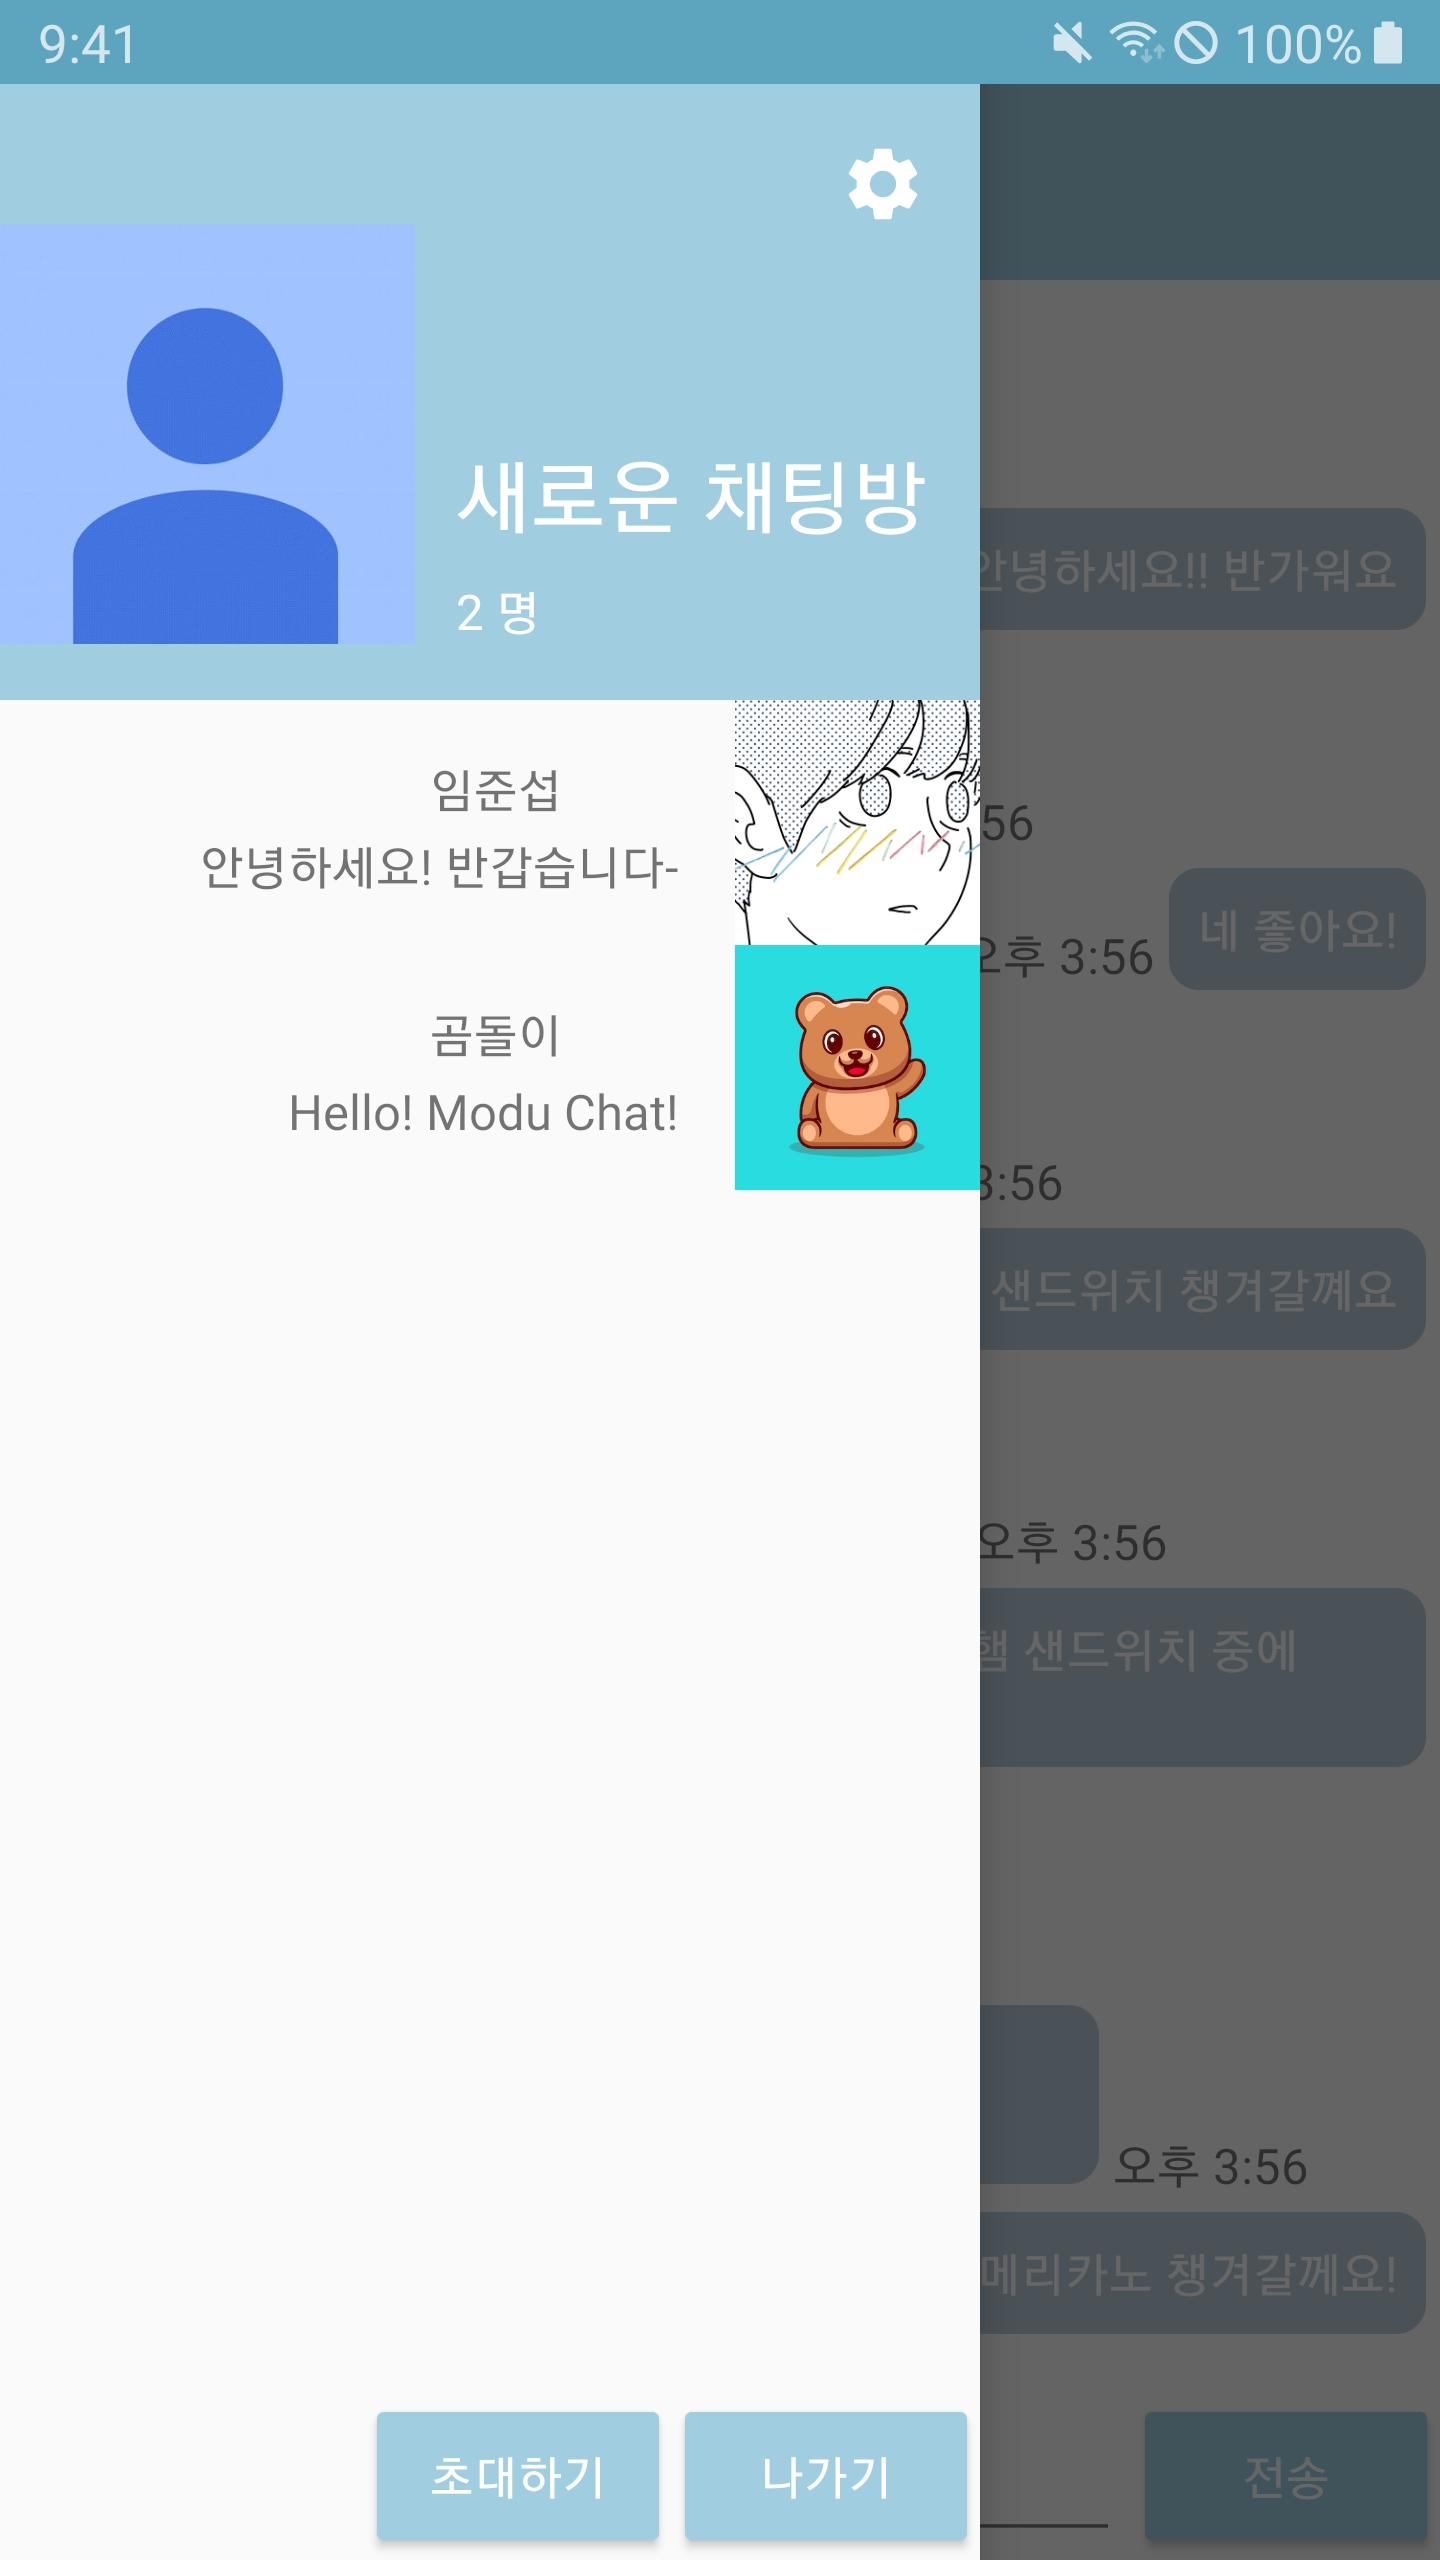
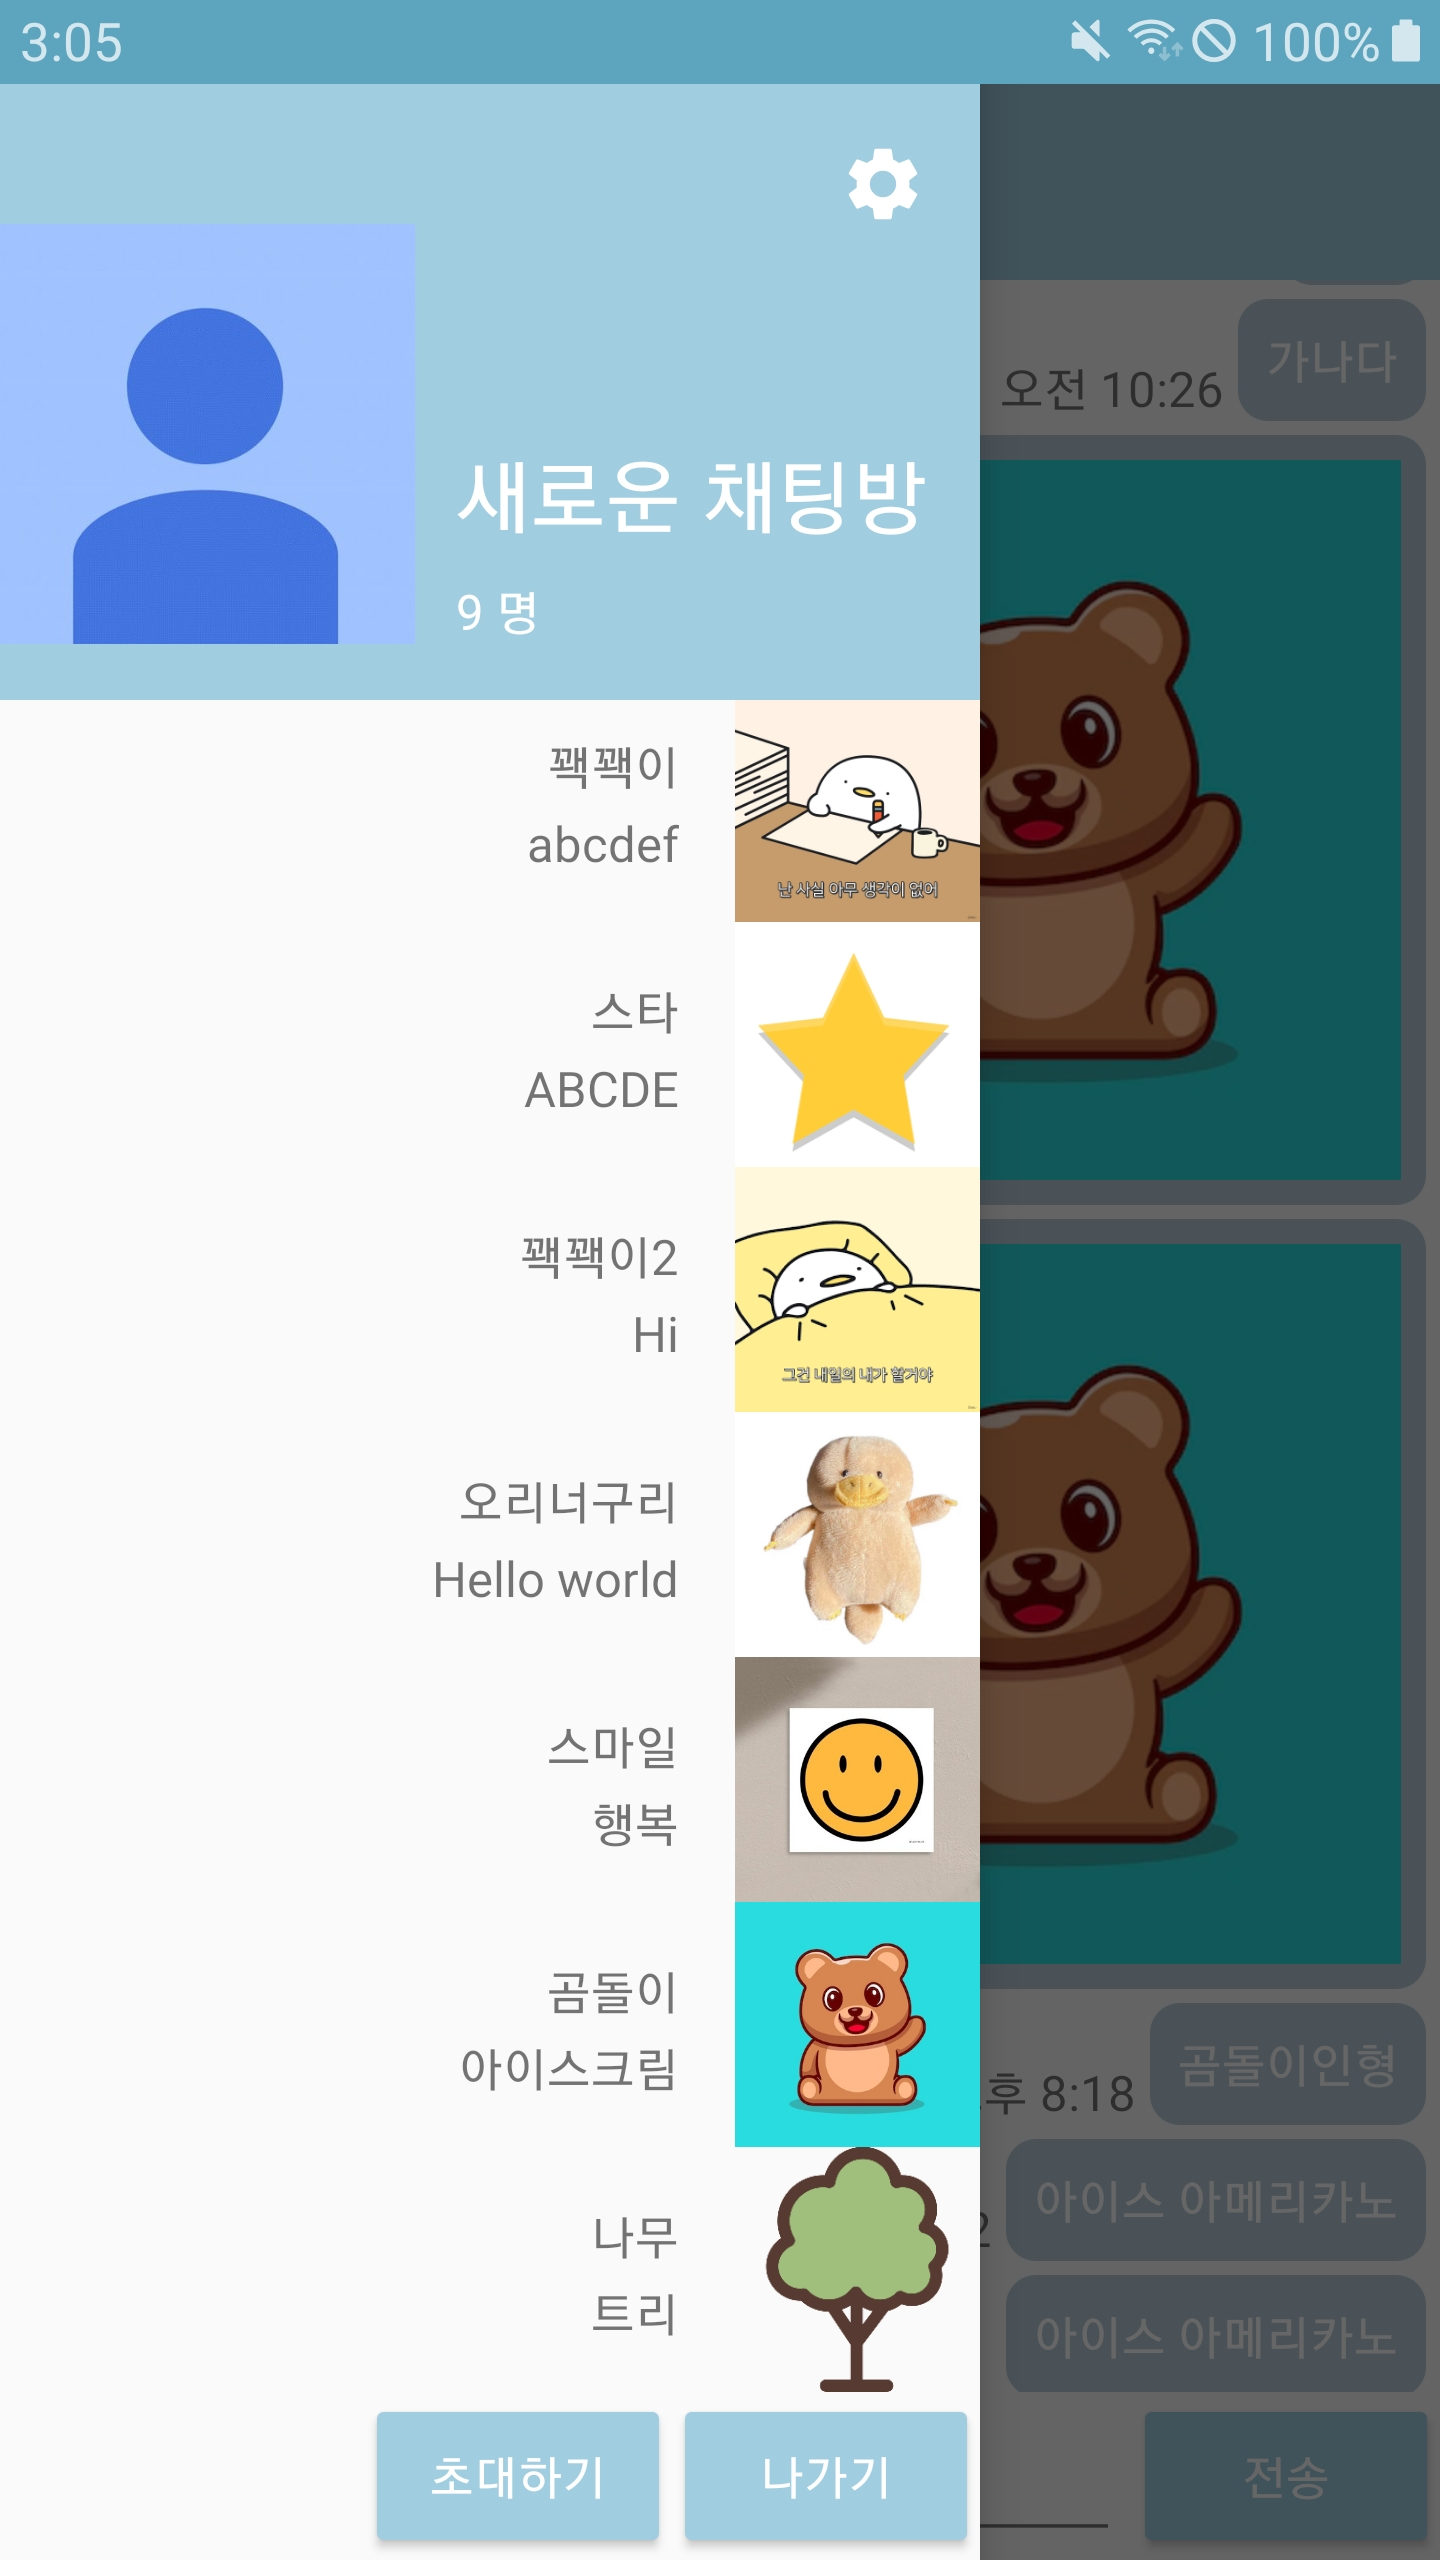
Docs: "백엔드/안드로이드 문서 내용 추가"
백엔드
- 채팅 내역 조회시 페이징 관련 내용 추가
안드로이드
- 안드로이드 Q Scoped Storage 관련 내용 추가
- 채팅 내역 조회시 페이징 처리 관련 내용 추가
- 채팅방 멤버 리스트 사진 수정

Resolves: N/A
Ref: N/A
Related to: N/A

diff --git a/android/ModuMessenger/README.md b/android/ModuMessenger/README.md
@@ -35,6 +35,41 @@ Retrofit을 이용하여 백엔드와 통신하는 것으로 결정
 일반 메세지 (텍스트) 전송 가능   
 예정) 기타 메세지 (사진, 파일 등) 지원 예정  
 
+## 안드로이드 Q(API 29) 의 Scoped Storage
+
+안드로이드 Q(Api 29)에서 보안 및 저장 공간의 효율화를 위해서 Scoped Storage가 추가되었다.  
+내부저장소의 경우 기존과 동일하지만 외부저장소의 경우 이전과 달라졌다.  
+외부저장소의 경우 개별공간이 앱별로 샌드박스로 격리되도록 변경되었다.  
+또한 외부저장소의 공용공간도 음악, 동영상, 다운로드로 분리되었다.  
+분리된 음악, 동영상, 다운로드 구조 내부에서 또 앱 패키지 별로 또 구분되도록 변경되었다.  
+
+채팅으로 사진을 전송할때, 갤러리에서 사진을 선택하고 서버로 전송해야 한다.  
+Q 이전 버전에서 사용하던 MediaStore의 방식이 Deprecated 되었다.  
+따라서 갤러리의 이미지를 내부 저장소에 복사한다음, 이파일 경로를 서버로 업로드 한다.  
+이때 생성한 내부저장소의 임시파일은 전송후 삭제한다.  
+
+## 채팅방 Infinite Scroll
+
+채팅방에서 주고 받은 채팅이 100개 라면 한번에 조회시 부하가 크게 발생하지 않을 것이다.  
+하지만 채팅이 100개가 아니라 천개, 만개 혹은 그 이상이라면 전체 조회시에 로딩이 길어질 것이다.  
+따라서 채팅방에 입장하면 초기에 보여질 채팅을 우선적으로 가져와서 보여준다.  
+그리고 이전 내역을 조회 해야하는 경우에만 이전 채팅을 가져오는 방식으로 구현을 하였다.  
+
+이전 채팅을 가져오는 기준은 채팅 각각이 가지고 있는 아이디를 기준으로 한다.  
+현재 표시된 가장 마지막 채팅의 아이디가 123이면 123 이전의 아이디를 조회해서 가져온다.  
+이전 내역을 조회해야 하는 경우는 보여진 채팅을 전부 보고 난 뒤 이다. (스크롤이 끝에 도달한 경우)  
+
+채팅은 위아래 두가지 방향에서 추가 될수 있다. (위 - 이전 채팅, 아래 - 신규 채팅)   
+이전 채팅 내역을 추가하는 경우는 채팅 리스트의 맨 앞에 추가해야한다.  
+그리고 새롭게 전송되는 채팅은 채팅 리스트의 맨 뒤에 추가되어야 한다.  
+
+이때 보여지는 어떻게 기준을 가지고 새 채팅을 추가하고, 이전 채팅을 가져와야 하는지 헷갈릴 수 있다.  
+근데 잘생각해보면 두 데이터는 서로 간섭을 하지않는다. 입장하면서 가져온 채팅 리스트를 기준으로만 생각하면 된다.  
+이전 채팅을 가져오는 채팅의 id는 이전 채팅을 조회할때마다 갱신된다. (가장 마지막 표시된 채팅의 id)  
+그렇게 해서 가져온 이전 채팅들은 리스트의 맨 앞에만 추가된다. (순서상으로 앞에 있기 때문이다)  
+그리고 새롭게 전송되는 채팅은 조회해서 가져온 채팅 리스트의 마지막에 계속 추가된다.   
+채팅의 경우 순차적인 데이터 이므로 중간에 삽입되는 일이 절대로 없다. (수정이나, 삭제는 가능, 삽입만 없음)  
+
 ## 오프라인 모드
 
 오프라인 모드를 지원  

diff --git a/backend/ModuMessenger/README.md b/backend/ModuMessenger/README.md
@@ -49,6 +49,18 @@ Subscribe 중인 채널로 부터 다른 채팅 서버에서 보낸 데이터가
 채팅방, 유저 테이블은 본 프로젝트의 핵심이되는 테이블로 부하가 가장 많이 생기는 테이블   
 따라서 쿼리가 추가로 발생하는 상황 (N+1 문제)를 최대한 피하고자 초기설게에서 연관관계를 수정함   
 
+### 채팅 페이징 처리 (No offset 페이징 처리)
+초기 설계는 페이징 처리를 통해서 오프셋과 사이즈를 통해서 처리를 하려고 했다.  
+하지만 채팅의 경우 1페이지에서 3페이지로 건너뛰는 경우가 없다.  
+스크롤하다가 스크롤이 끝에 도달한 경우에만 이전 데이터를 가져오면 된다.  
+그래서 정해진 사이즈와 마지막으로 표시된 채팅의 정보만으로 조회가 가능하다.  
+
+그런데 마지막으로 표시된 채팅이 없는 경우가 존재한다. 어떤 경우일까?  
+하나는 채팅방에 처음 입장하는 순간이다. 마지막으로 표시된 채팅이 없기 때문이다.  
+이경우에는 채팅방의 채팅을 조회한뒤 마지막에서부터 정해진 크기만큼의 데이터만을 조회한다.  
+두번째는 채팅방을 처음 생성한 경우이다. 처음 생성하면 이전 채팅 내역이 존재하지 않는다.  
+따라서 채팅방의 채팅 갯수를 가져오는 api를 통해 채팅 조회 요청을 전송할지를 결정해줘야 한다.  
+
 ### 채팅방 - 채팅  
 @OneToMany (주체는 채팅방)
 1대다의 연관관계를 가짐  
